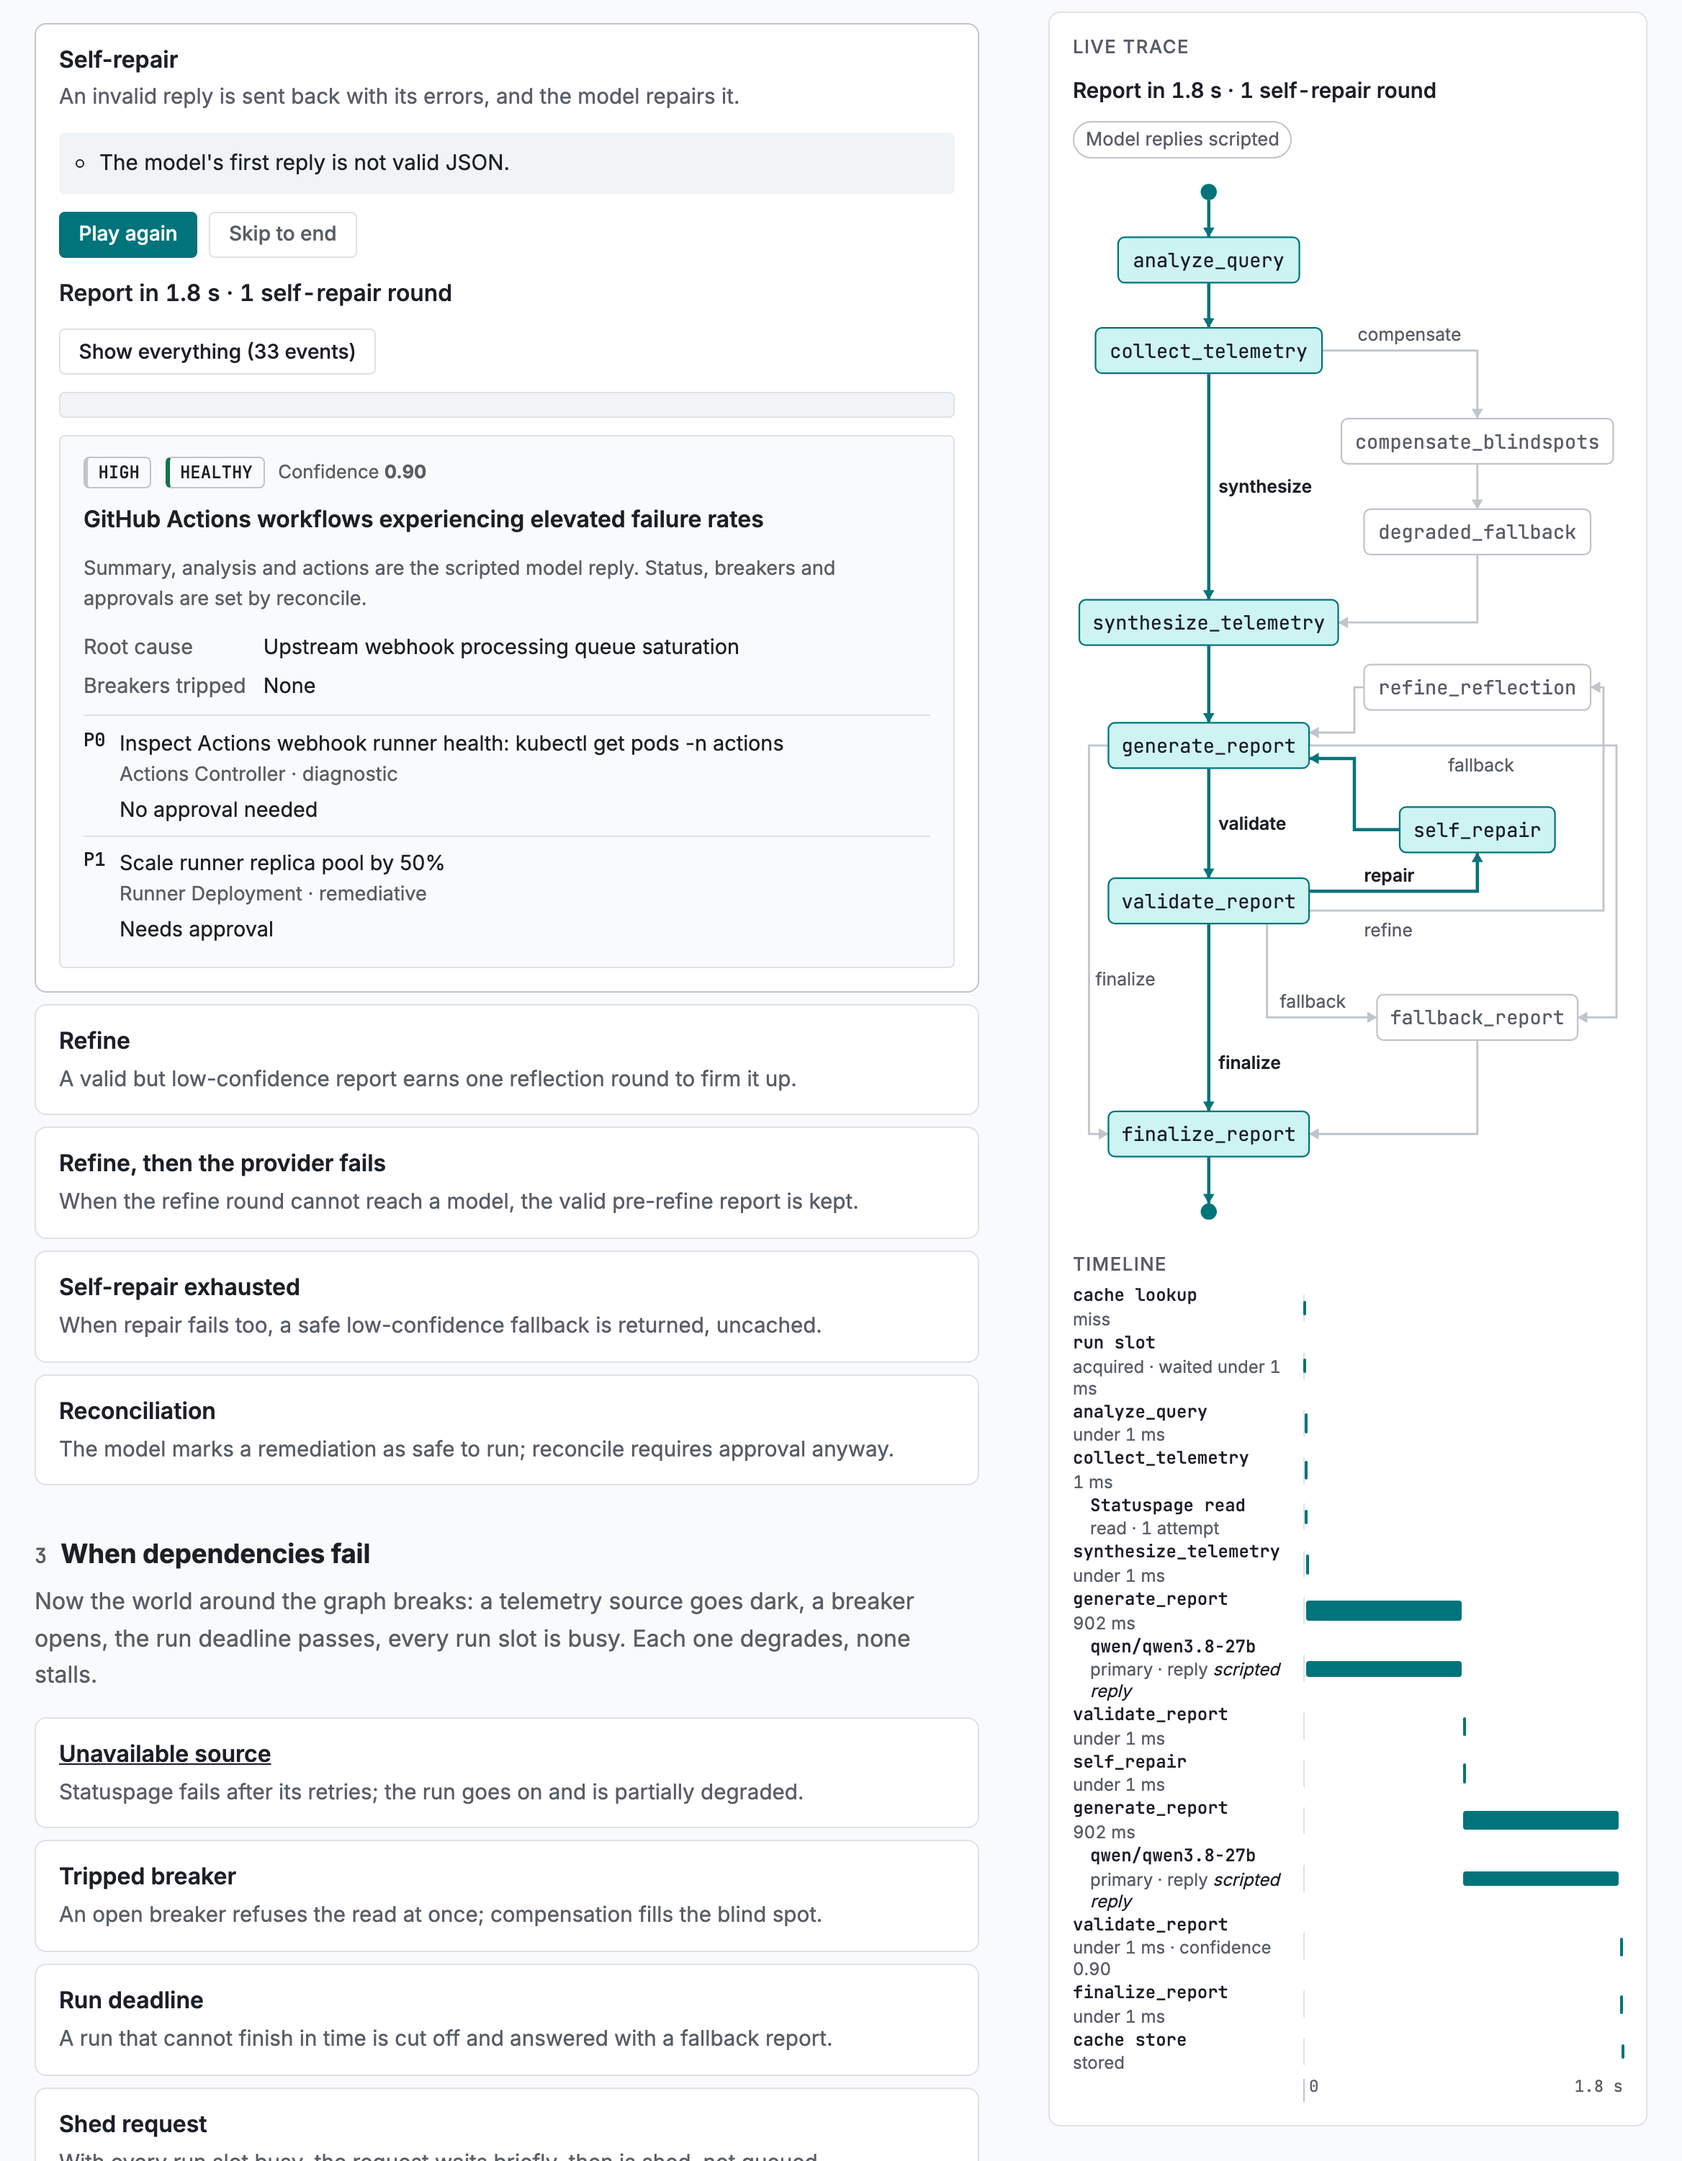
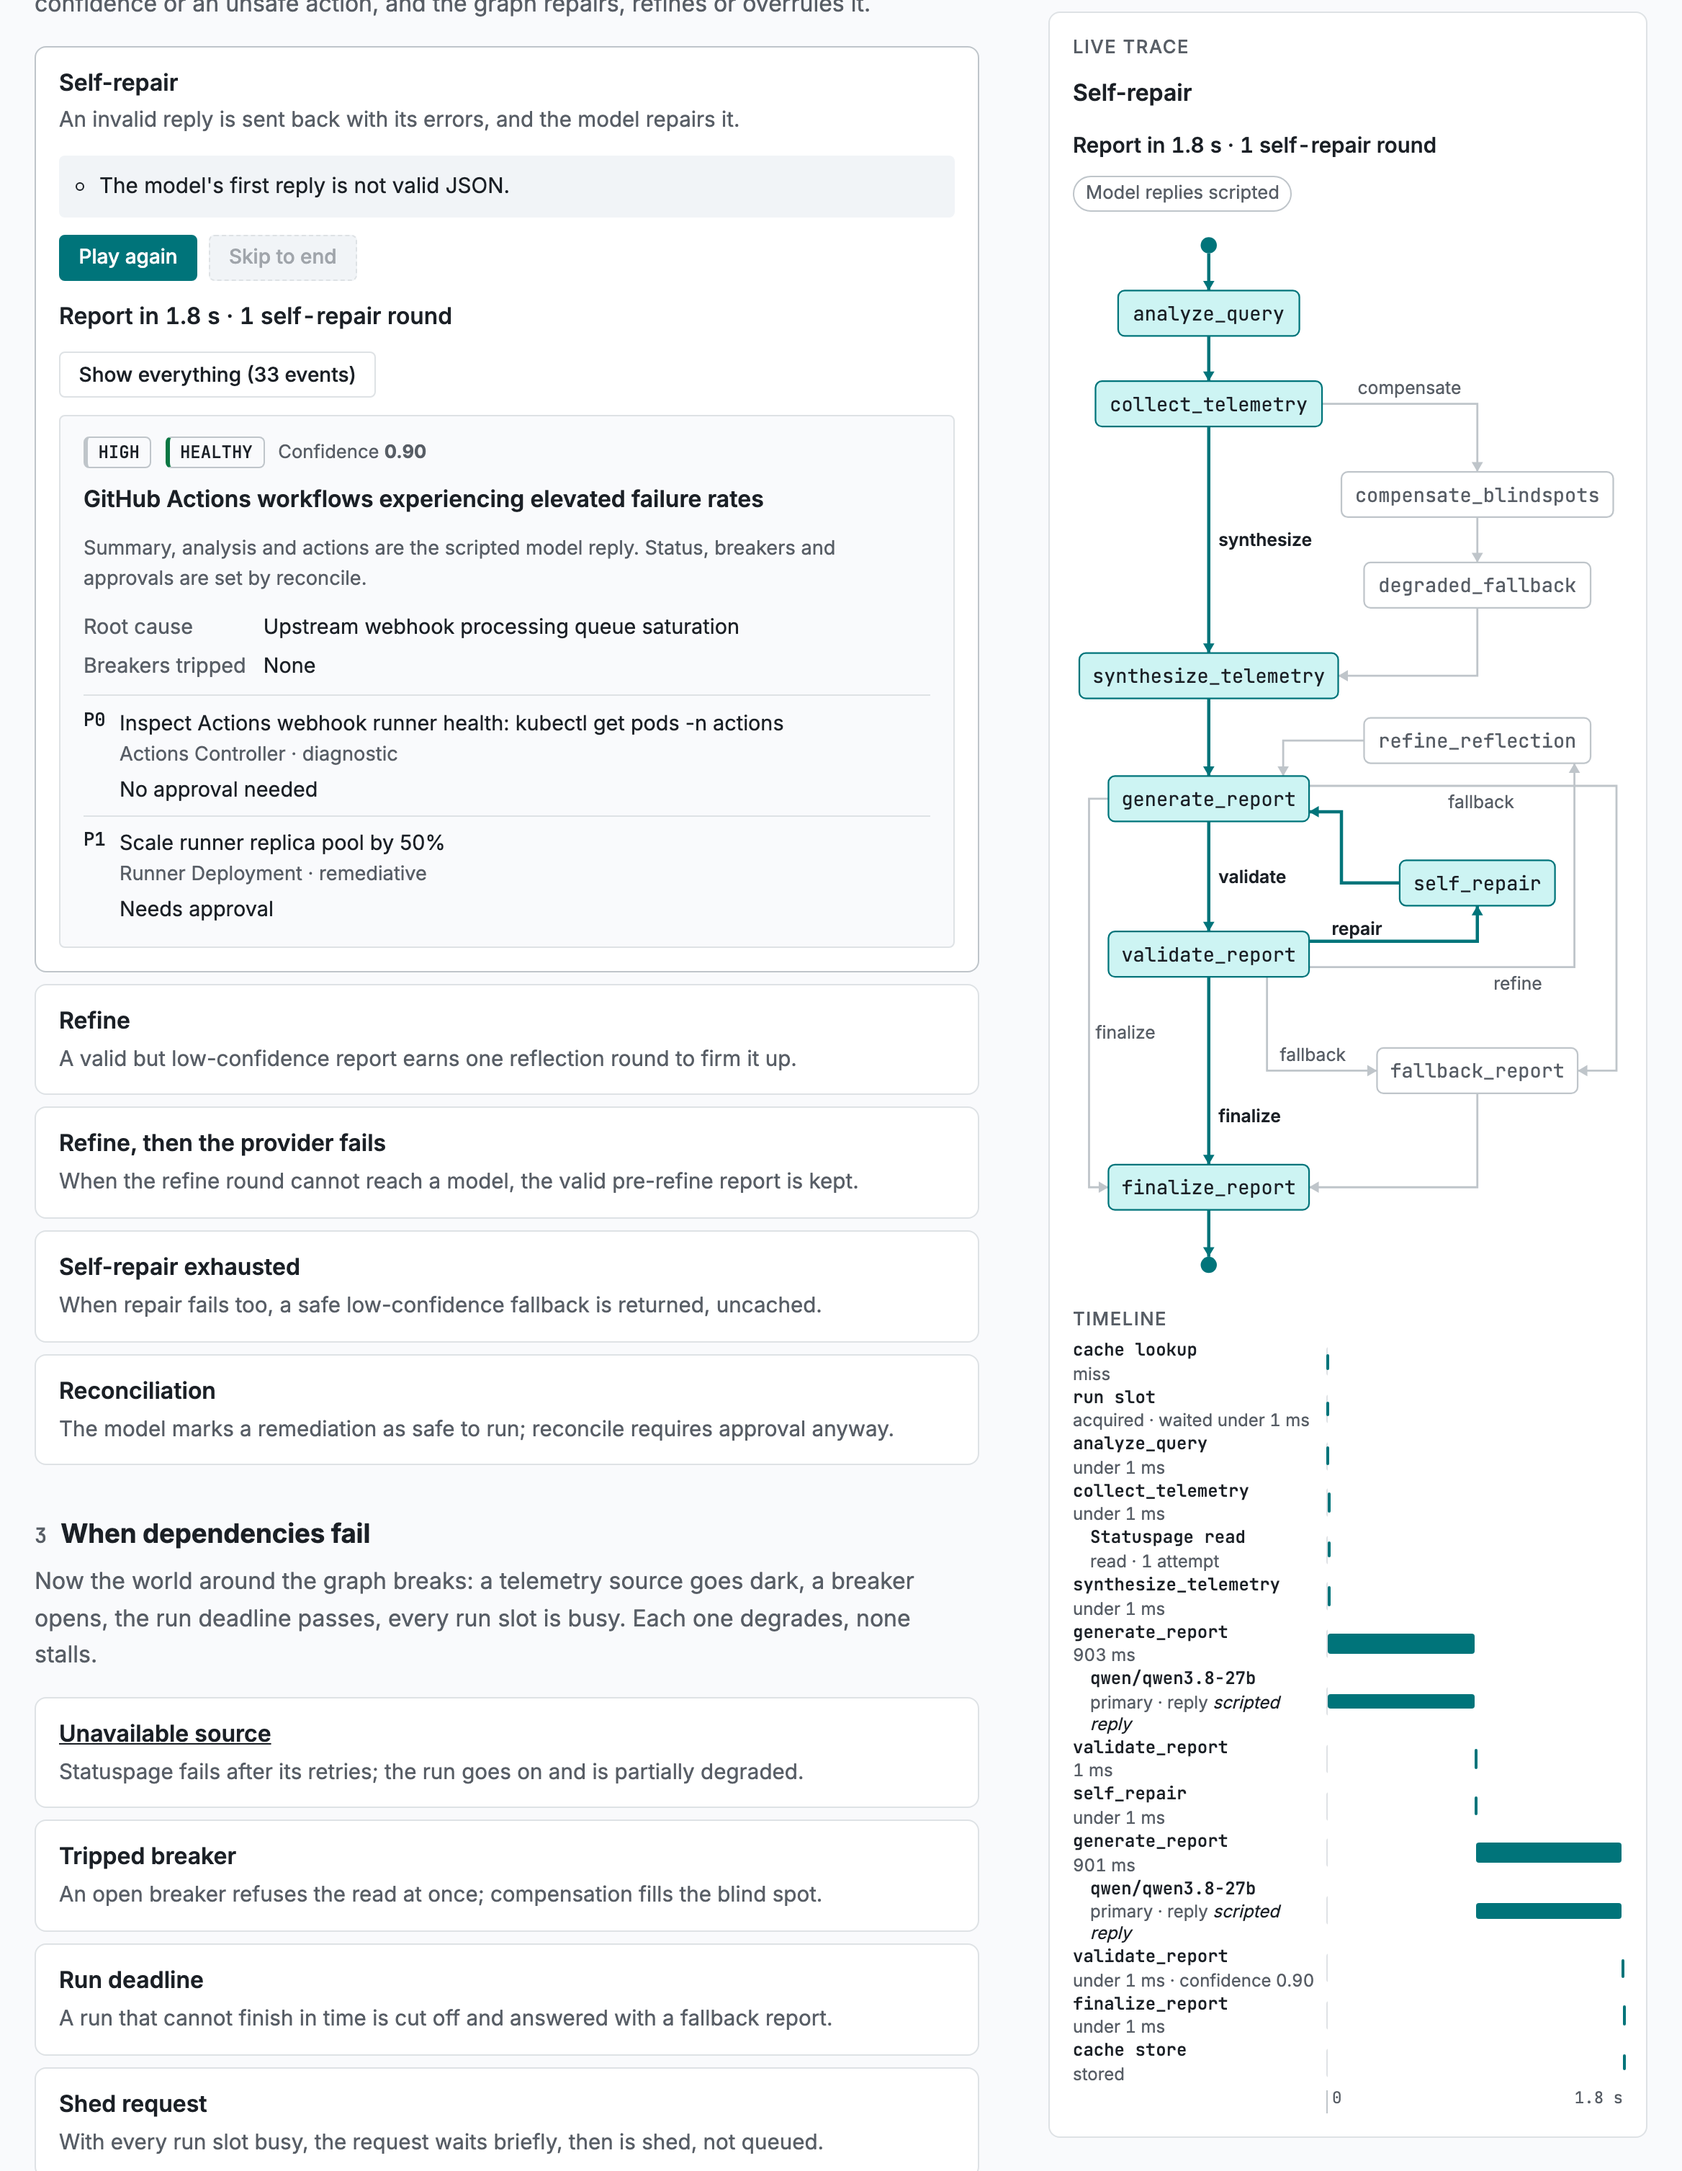
docs(readme): regenerate screenshots for the new graph layout
The graph's layout changed in #162 and free play now shows its report (#155),
so the free-play capture's viewport grows from 1800 to 2200 px to fit it.

Refs #152

diff --git a/scripts/screenshots.py b/scripts/screenshots.py
@@ -92,7 +92,7 @@ def stage_free_play(page: Page) -> tuple[str, ...]:
 CAPTURES = (
     Capture("page", 800, stage_page),
     Capture("scenario-run", 1600, stage_scenario_run),
-    Capture("free-play", 1800, stage_free_play),
+    Capture("free-play", 2200, stage_free_play),
 )
 
 
